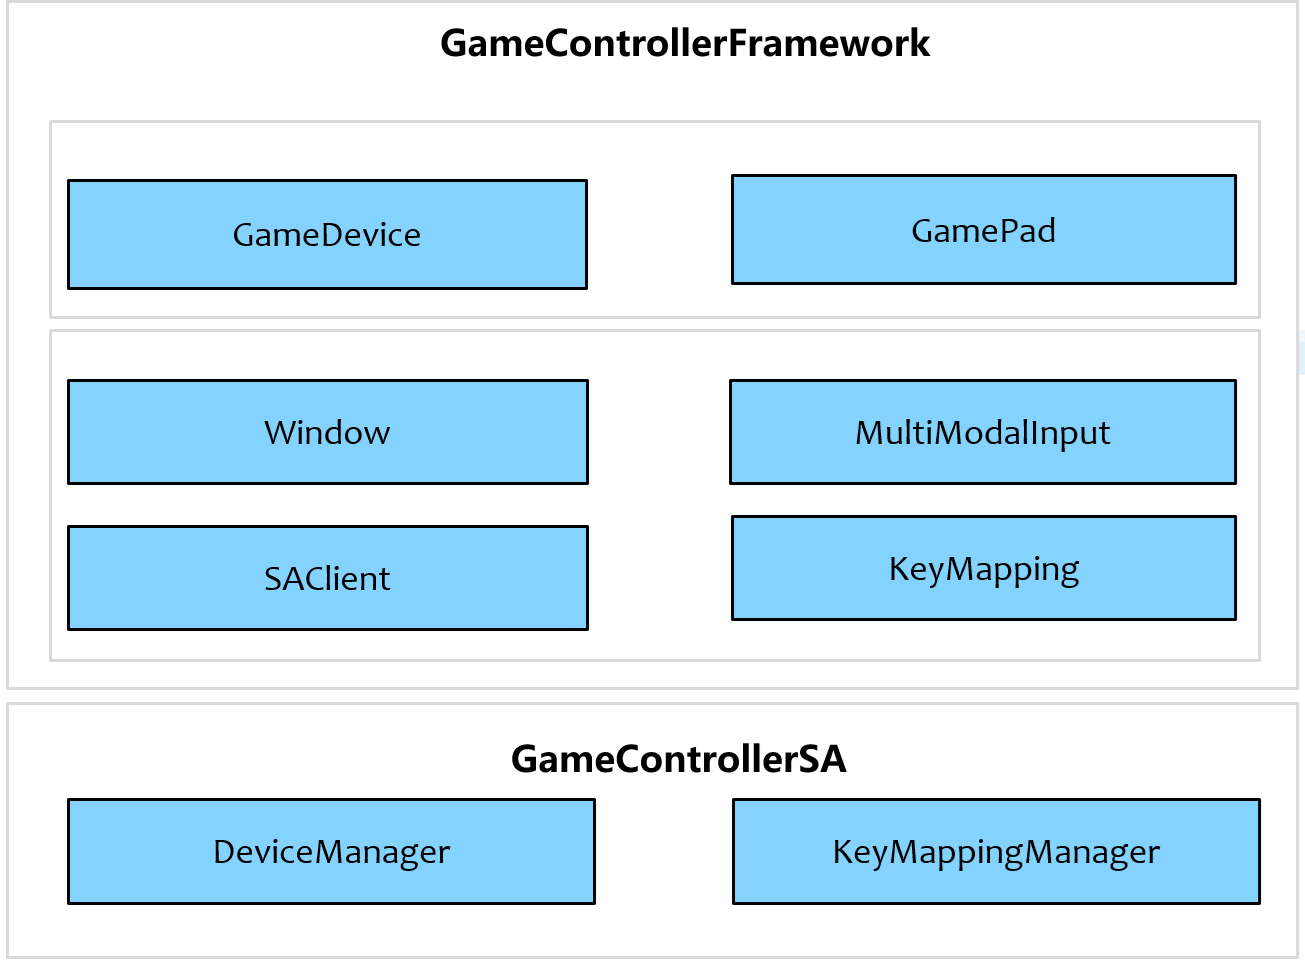
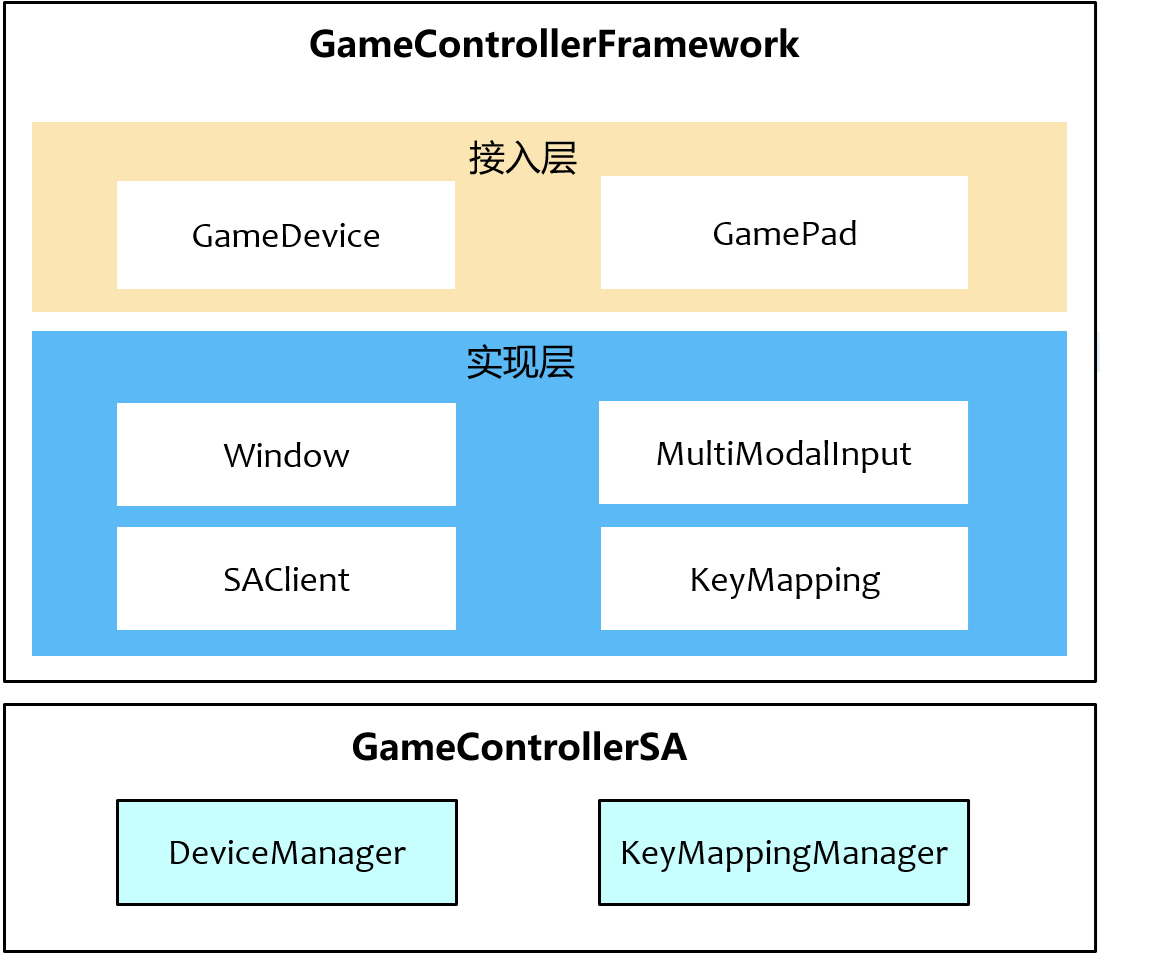
修改目录名称 Signed-off-by: jinsitao <[email redacted]>

diff --git a/README.md b/README.md
@@ -32,7 +32,7 @@ Note: Currently, only CAPI is available, and ArkTS interface will be planned for
 
 ## Core Modules of GameController:
 
-![Code Architecture Diagram](./figures/code_arch.PNG)
+![Code Architecture Diagram](./figures/code_arch_en.PNG)
 
 ### GameControllerFramework
 